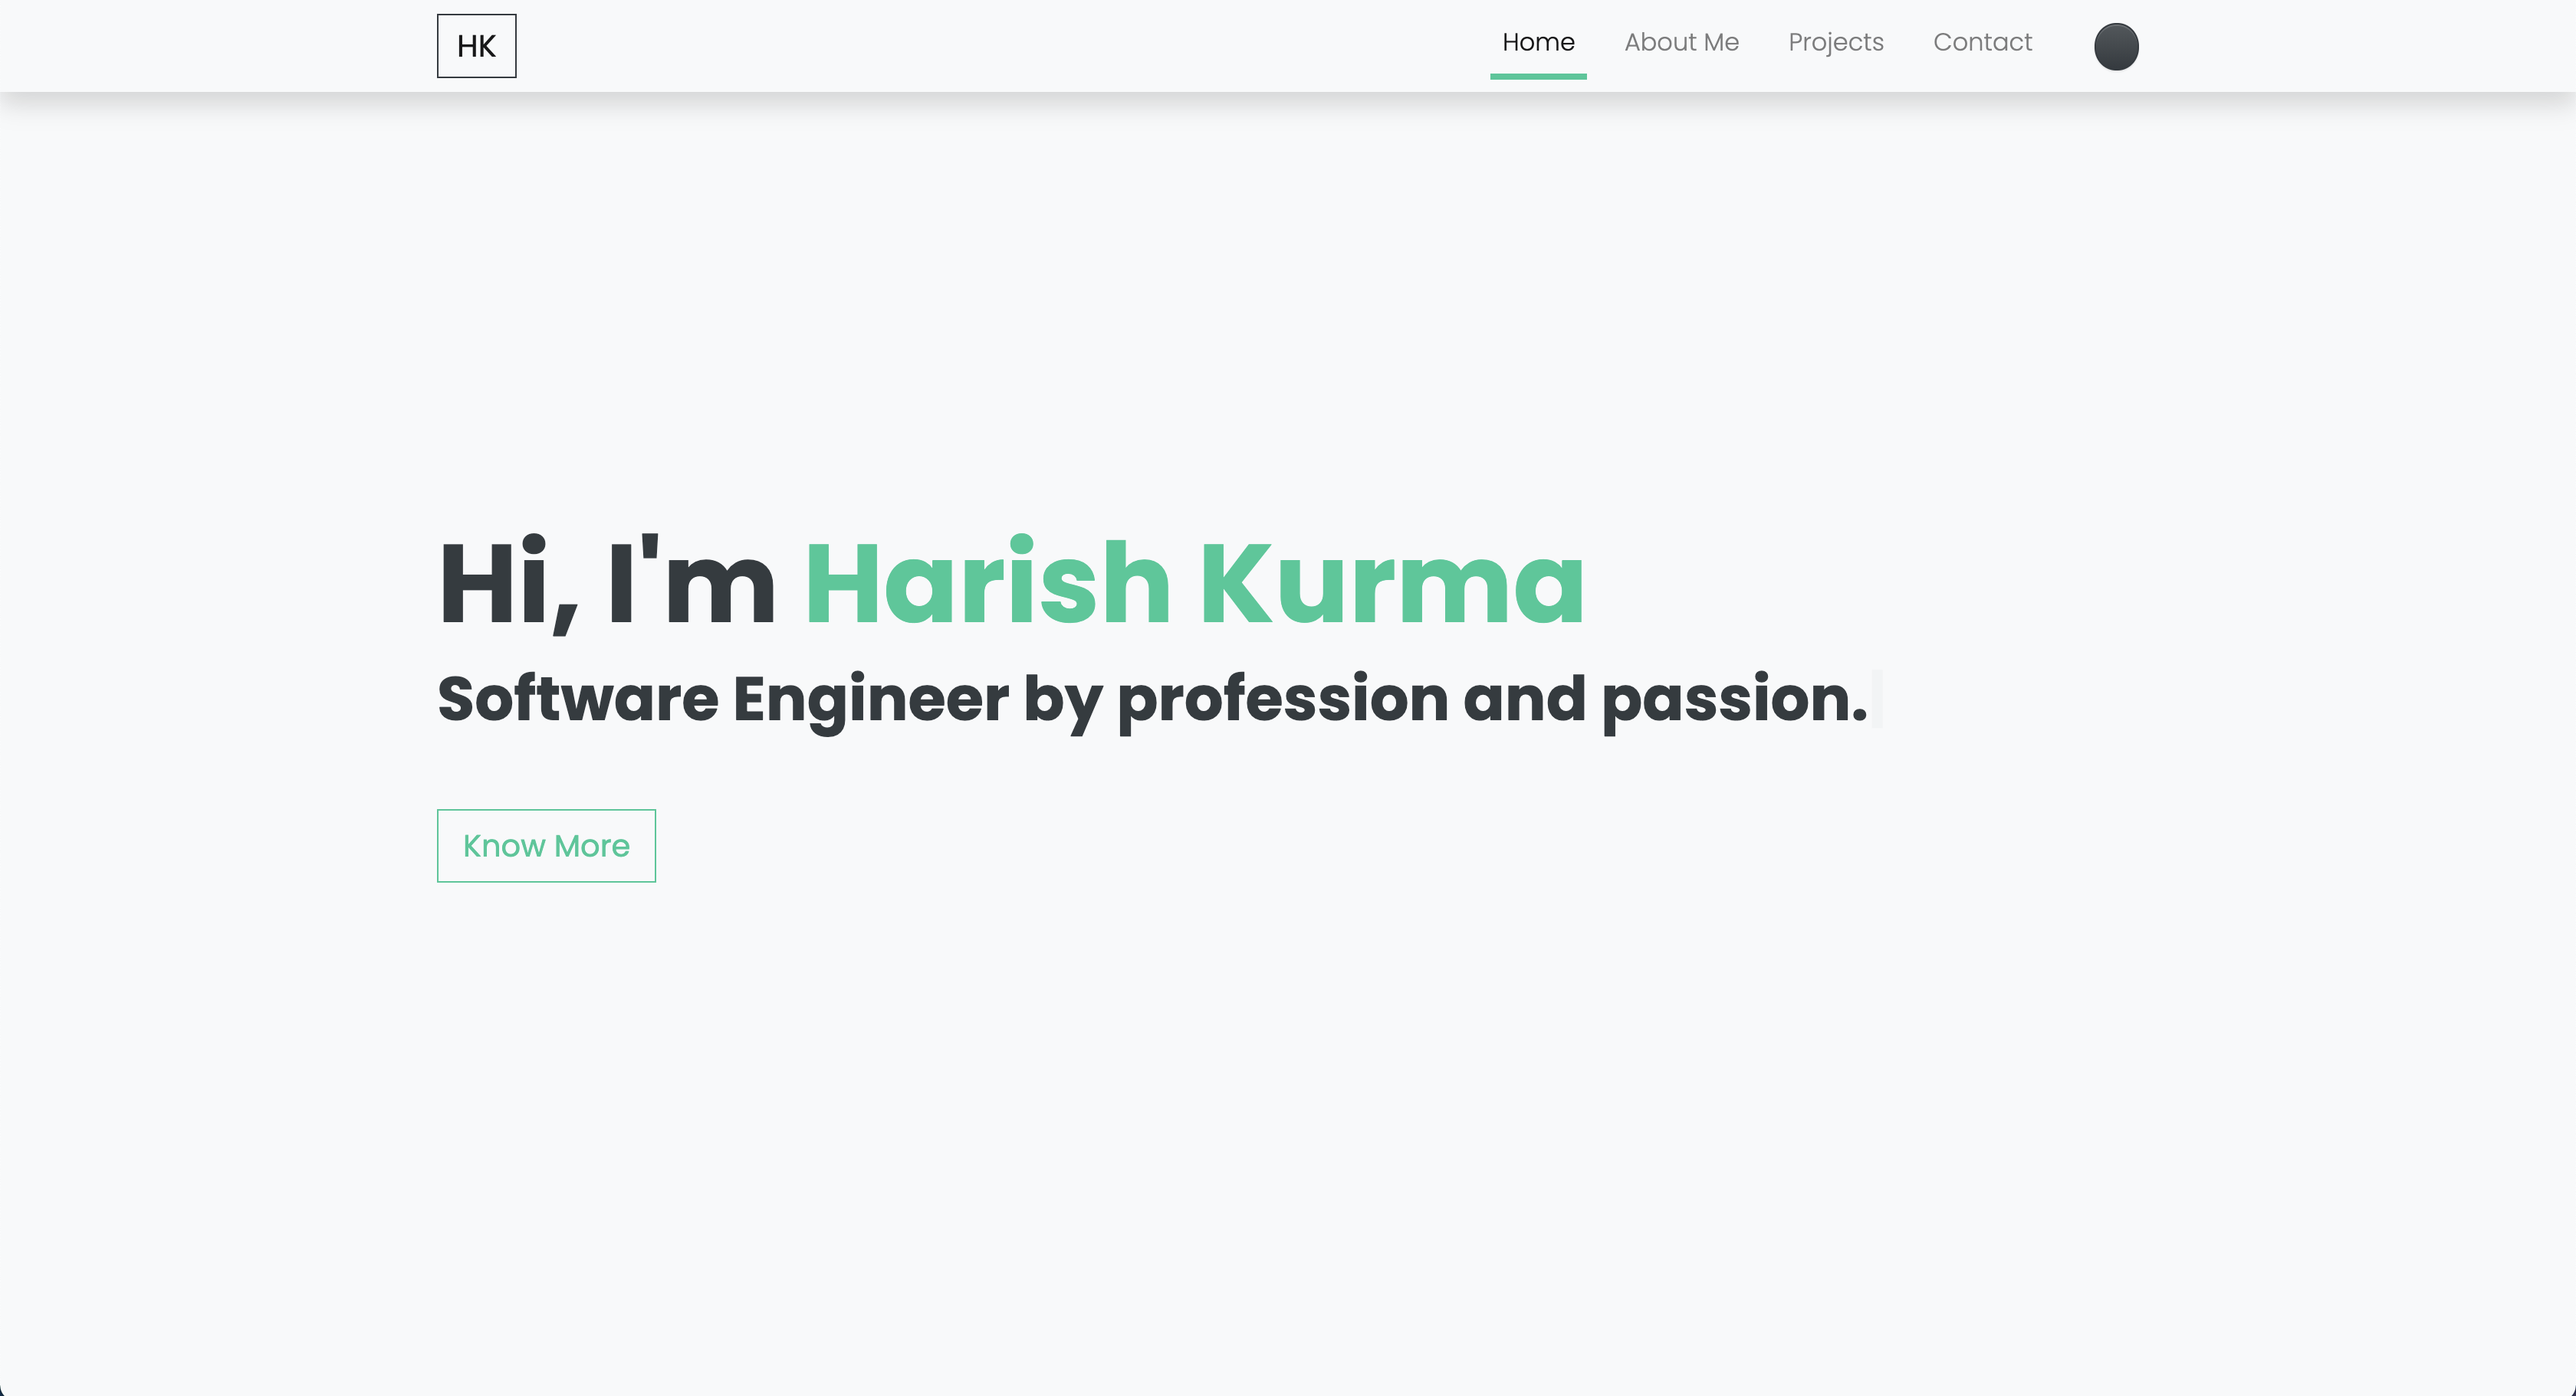
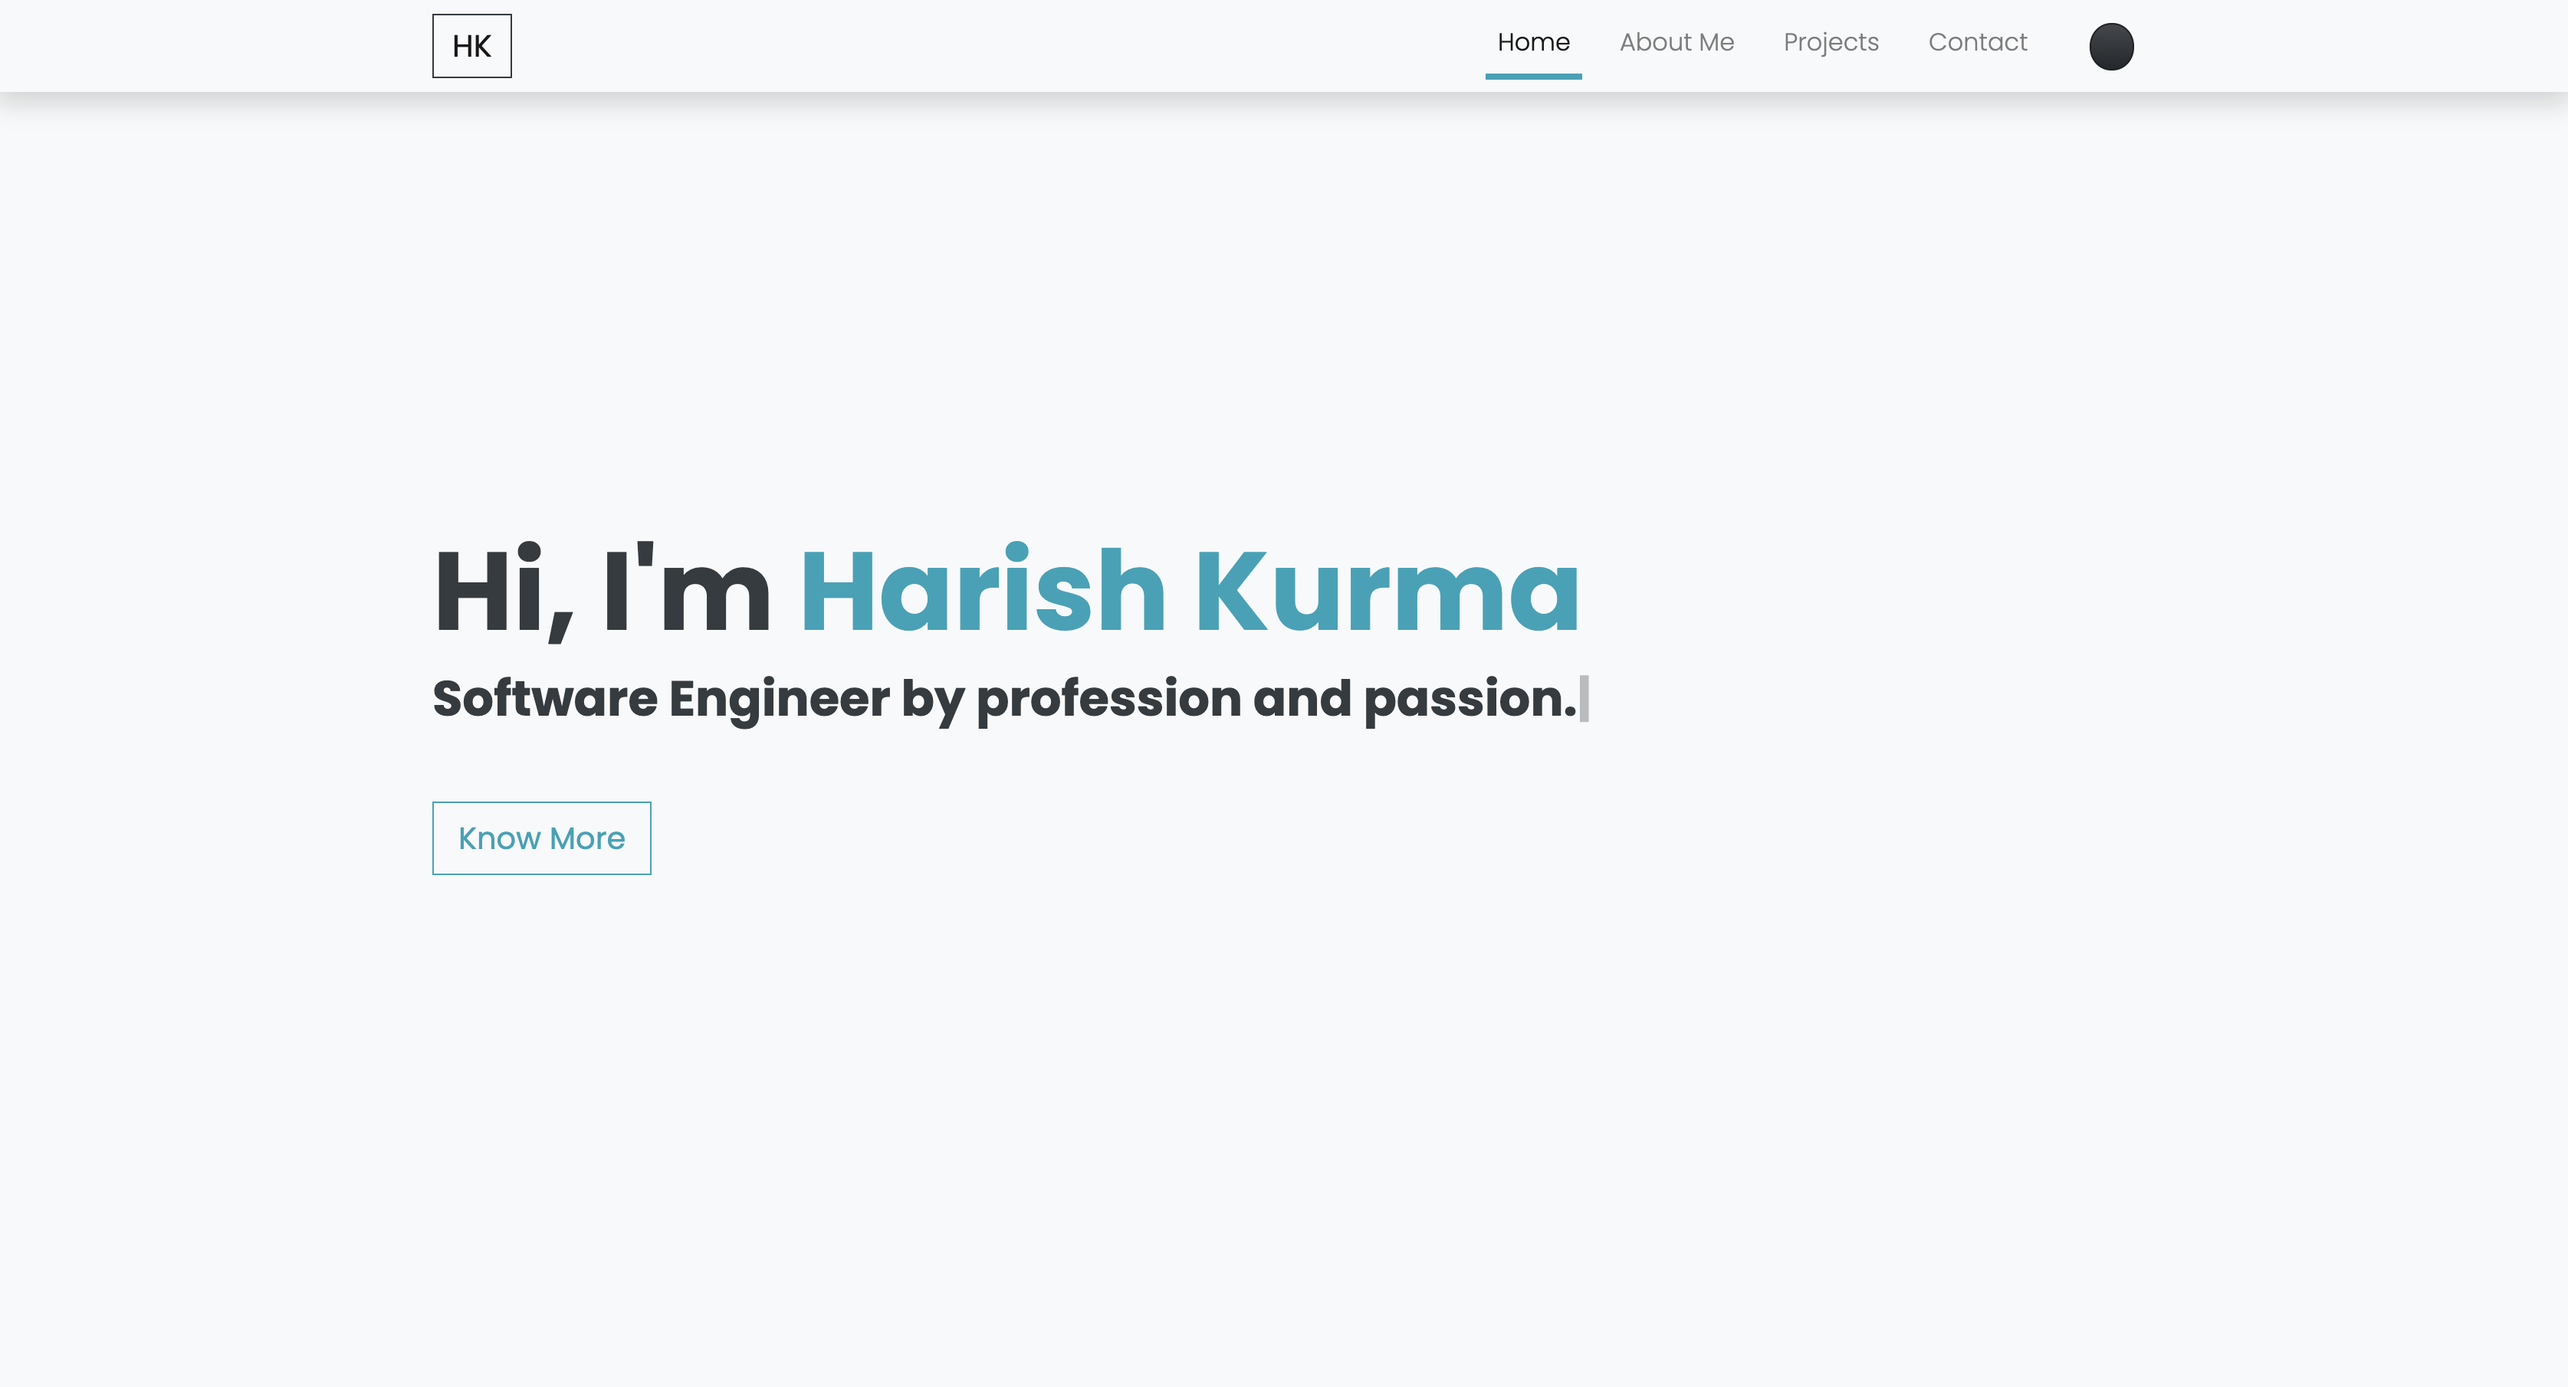
Update content

diff --git a/src/components/projects.js b/src/components/projects.js
@@ -27,10 +27,18 @@ const Projects = () => {
         {
             title: "My Portfolio",
             description:
-                "Lorem ipsum dolor sit amet, consectetur adipiscing elit, sed do eiusmod tempor incididunt ut labore et dolore magna aliqua. Ut enim ad minim veniam, quis nostrud exercitation ullamco laboris nisi ut aliquip ex ea commodo consequat. Duis aute irure dolor in reprehenderit in voluptate velit esse cillum dolore eu fugiat nulla pariatur. Excepteur sint occaecat cupidatat non proident, sunt in culpa qui officia deserunt mollit anim id est laborum.",
+                "A Static Website created using GatsbyJS, a ReactJS based Static Website Generator. It is my portfolio website to showcase my hobby projects and to learn more about me. This website has a light/dark mode which can be toggled, but defaults to appropriate theme based on the local time. It is hosted on Netlify and use Netlify CMS to manage content. Also, this application can be downloaded as a Progressive Web App (PWA) on supported mobile devices.",
             url: "https://hkurma.netlify.app",
             source: "https://github.com/hkurma/my-portfolio",
             image: "my-portfolio"
+        },
+        {
+            title: "Recurr",
+            description:
+                "A Progressive Web Application (PWA) to manage recurring tasks and receive notifications on the schedules day. Built using React JS (Typescript) and used Firebase as Backend as a Service for Authentication and Realtime Database. Firebase Cloud Functions and Messaging is used for sending out notifications to the user. User's can login using their Google account and start creating recurring tasks to receive notifications on the scheduled day.",
+            url: "https://recurr-1a3ba.firebaseapp.com",
+            source: "https://github.com/hkurma/recurr",
+            image: "recurr"
         }
     ];
     const getImage = (name) => {
@@ -53,7 +61,9 @@ const Projects = () => {
                             <div
                                 className={
                                     "col-md-4 mb-5 text-center " +
-                                    (index % 2 === 1 ? "order-2" : "order-1")
+                                    (index % 2 === 1
+                                        ? "offset-md-1  order-2"
+                                        : "order-1")
                                 }
                             >
                                 <Tilt>
@@ -68,8 +78,10 @@ const Projects = () => {
                             </div>
                             <div
                                 className={
-                                    "offset-md-1 col-md-7 " +
-                                    (index % 2 === 1 ? "order-1" : "order-2")
+                                    "col-md-7 " +
+                                    (index % 2 === 1
+                                        ? "order-1"
+                                        : "offset-md-1  order-2")
                                 }
                             >
                                 <h3 className="text-primary mb-3">

diff --git a/src/components/about.js b/src/components/about.js
@@ -42,15 +42,24 @@ const About = () => {
                     </div>
                     <div className="offset-md-1 col-md-7">
                         <p className="mb-5">
-                            Lorem ipsum dolor sit amet, consectetur adipiscing
-                            elit, sed do eiusmod tempor incididunt ut labore et
-                            dolore magna aliqua. Ut enim ad minim veniam, quis
-                            nostrud exercitation ullamco laboris nisi ut aliquip
-                            ex ea commodo consequat. Duis aute irure dolor in
-                            reprehenderit in voluptate velit esse cillum dolore
-                            eu fugiat nulla pariatur. Excepteur sint occaecat
-                            cupidatat non proident, sunt in culpa qui officia
-                            deserunt mollit anim id est laborum.
+                            Hello! Thanks for stopping by to take a look at my
+                            portfolio. I'm Harish Kurma, Software Engineer by
+                            profession for more than 5 years. I did my Master's
+                            in Computer and Information Sciences from Kent State
+                            University, Ohio, United States. I have a great
+                            passion and interest towards application development
+                            from my Bachelor's, which drived me towards pursing
+                            Master's and then helped me to land in my dream job.
+                            I love to explore new techologies and work on
+                            hobby/pet projects. Developed web/mobile
+                            applications for various clients I have worked with.
+                            My dream is to create a consumer facing product that
+                            will be used by a large scale of users and I'm
+                            working towards it.
+                            <br />
+                            <br />
+                            <br />
+                            Thank you!
                         </p>
                         <Fade right={true}>
                             <Img

diff --git a/src/styles.scss b/src/styles.scss
@@ -1,4 +1,4 @@
-$primary: #20c997;
+$primary: #17a2b8;
 $enable-rounded: false;
 $enable-shadows: true;
 $enable-gradients: true;
